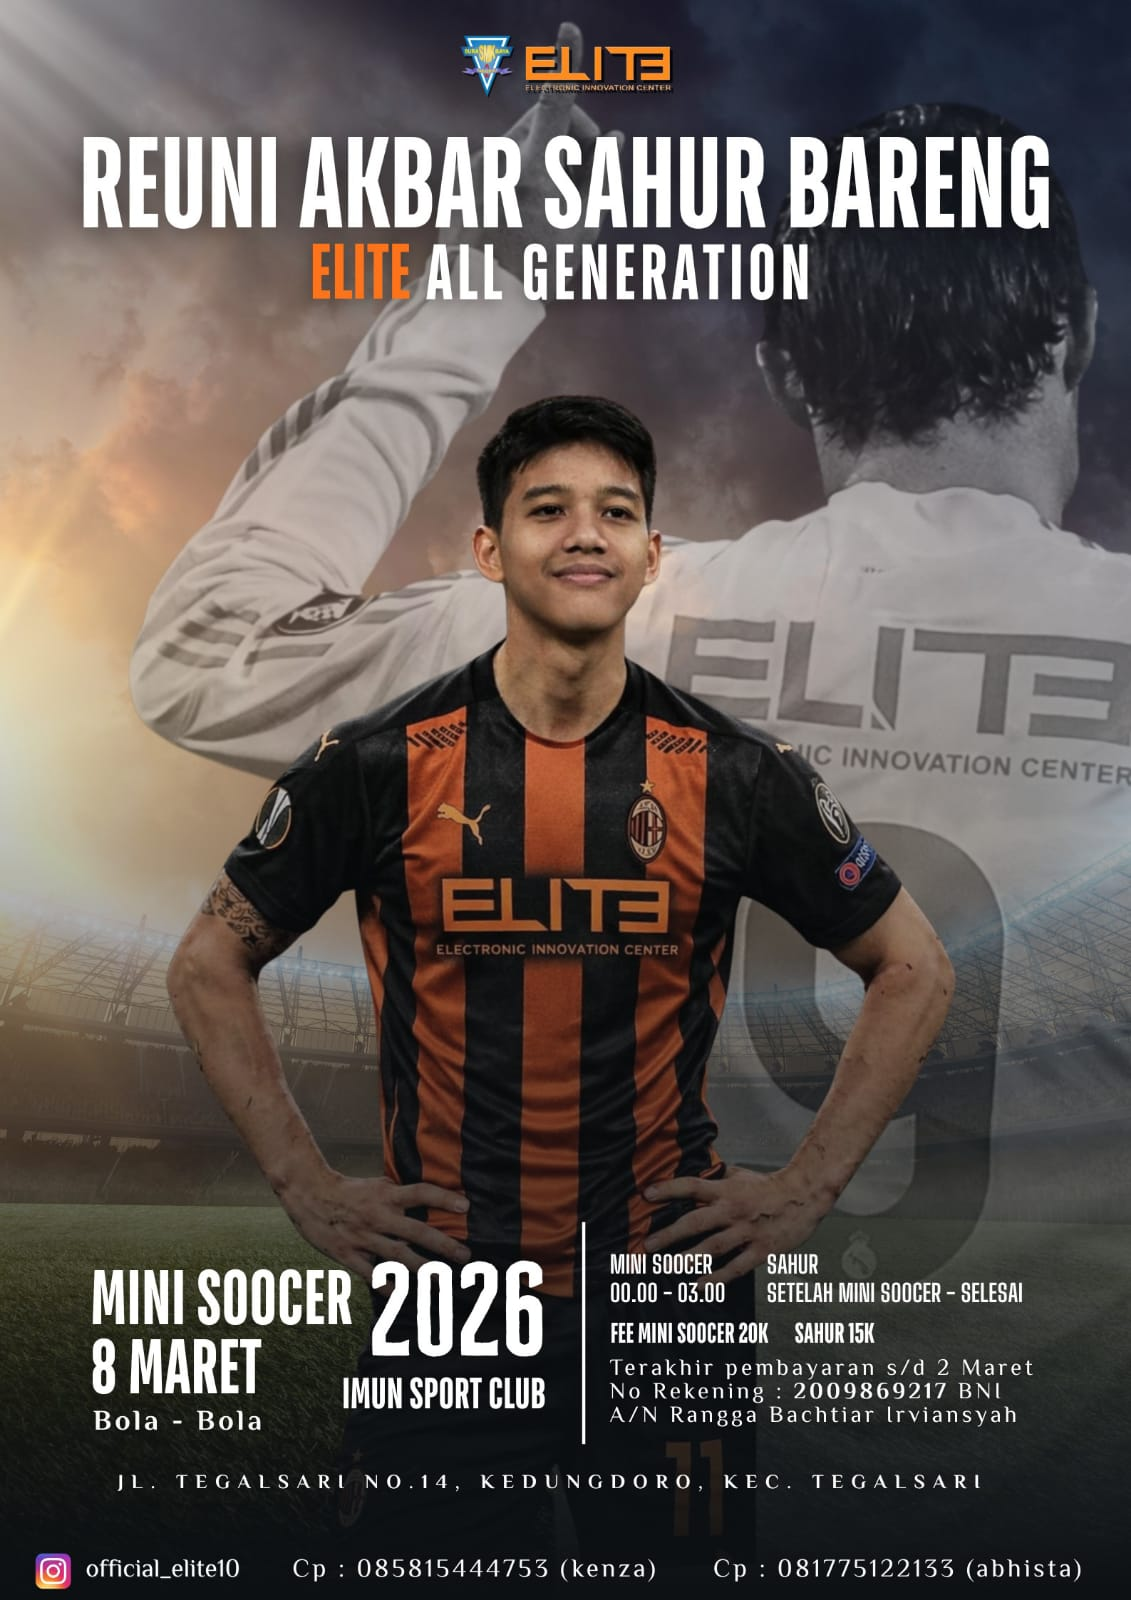
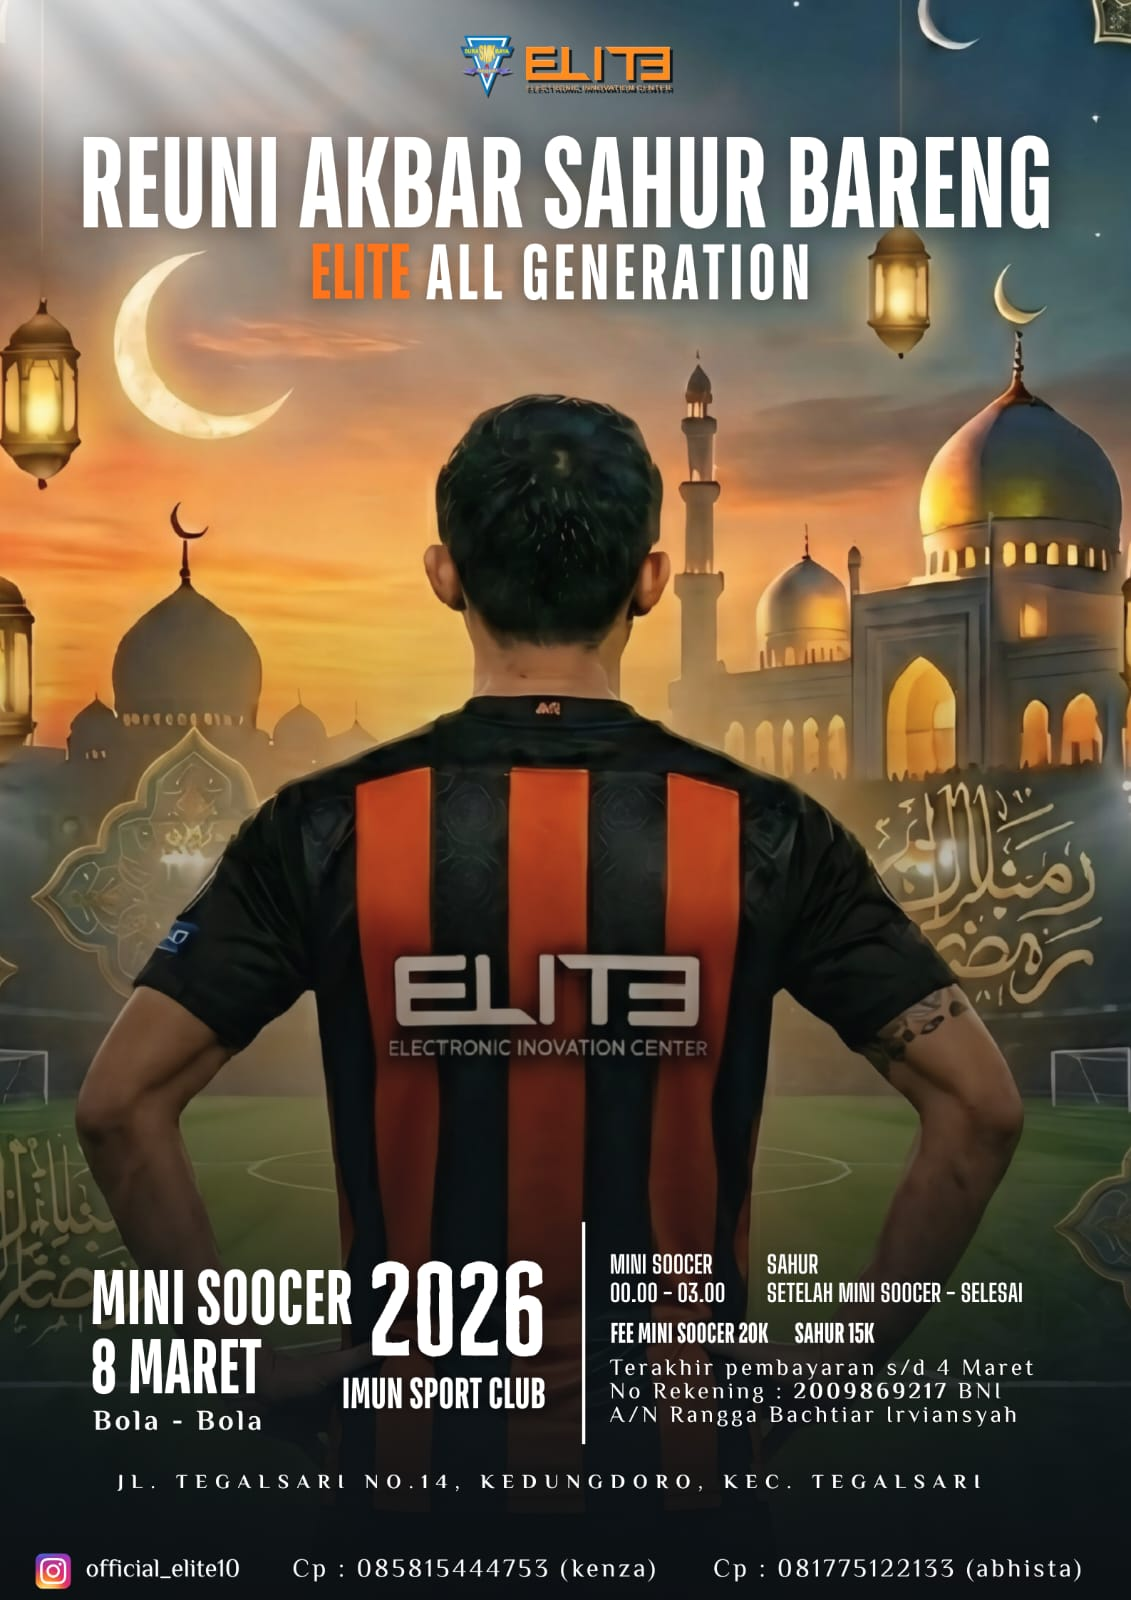
ganti poster

diff --git a/app/page.tsx b/app/page.tsx
@@ -83,7 +83,7 @@ export default function Home() {
                   </p>
                   <br />
                   <p>
-                    Terakhir pembayaran s/d 2 Maret Jangan lupa kasih keterangan: <strong>"Iuran elite berbagi (nama)"</strong> dan kirim bukti tf-nya ke cp yang tertera ya!
+                    Terakhir pembayaran s/d 5 Maret Jangan lupa kasih keterangan: <strong>"Iuran elite berbagi (nama)"</strong> dan kirim bukti tf-nya ke cp yang tertera ya!
                   </p>
                   <br />
                   <p>Ditunggu kehadirannya 🤲✨</p>
